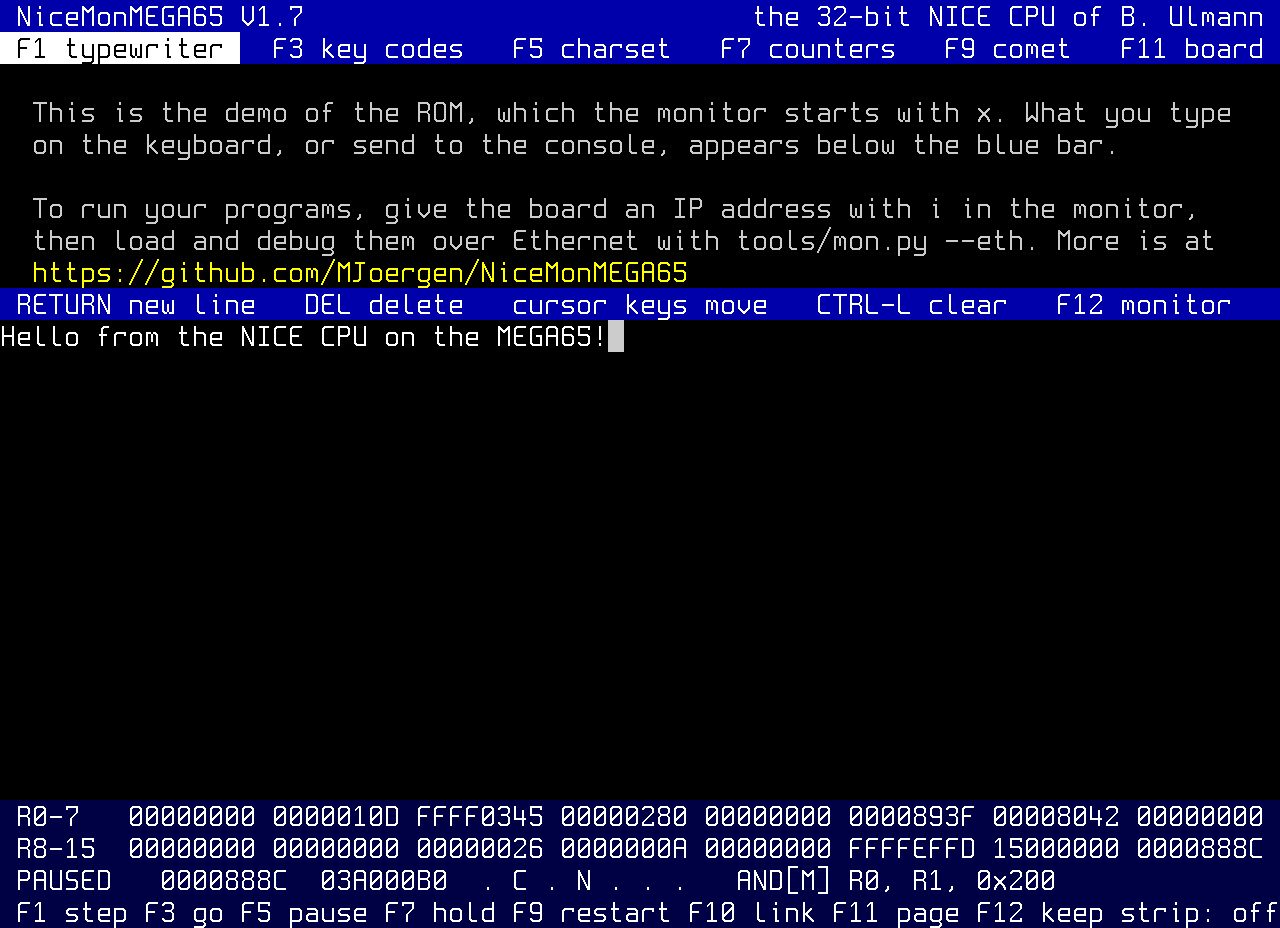
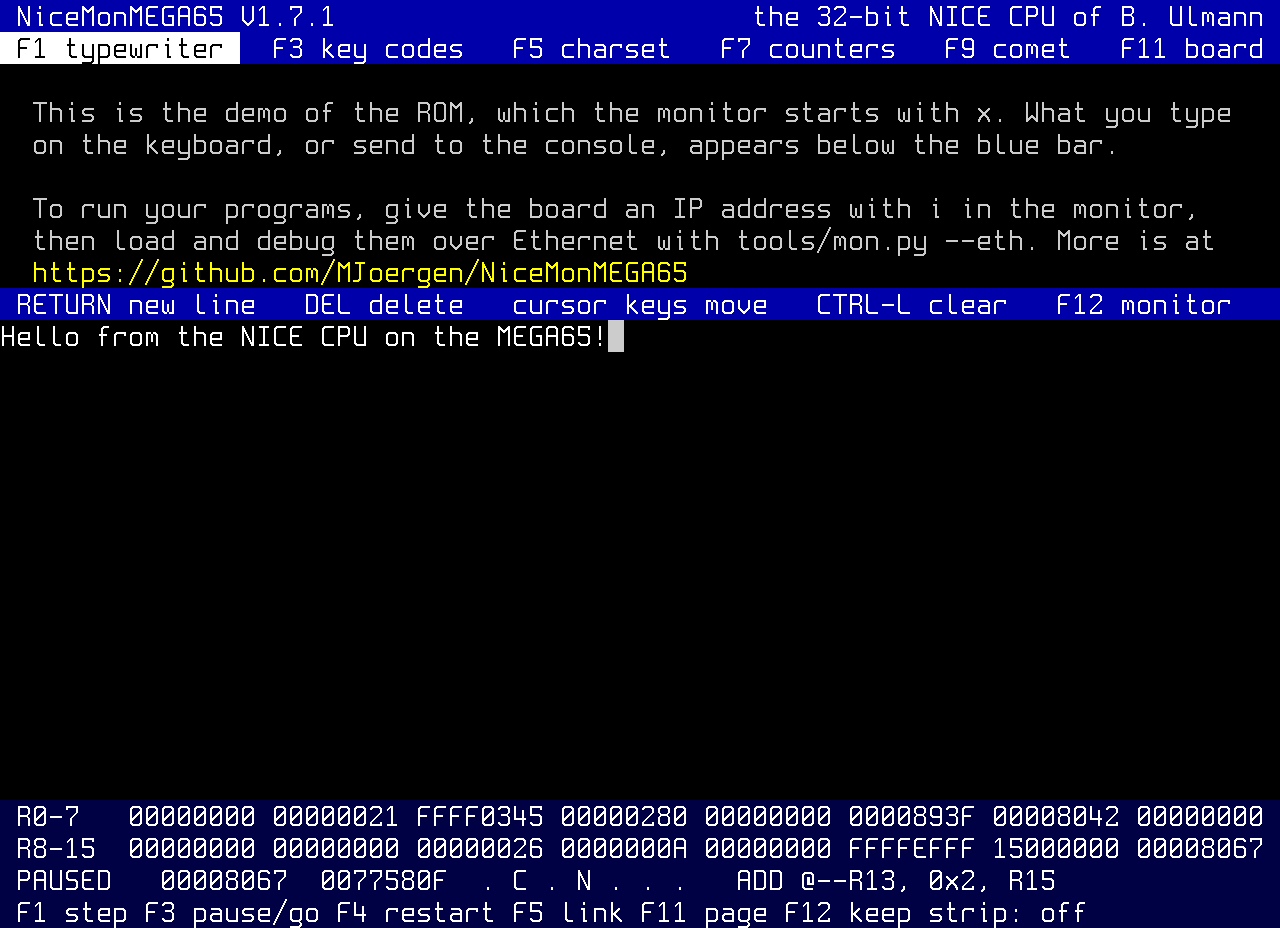
Date the V1.7.1 notes and redraw the pictures
The notes of V1.7.1 had no date, and the README's pictures showed the
tag V1.7 and the debugger's old keys in the strip. The section now has
today's date, and the pictures are drawn again with the tag V1.7.1.
The longer tag costs the demo steps, so the debugger's picture is taken
at 33280 steps, not 33205, where the whole line is typed again.

diff --git a/tools/screenshot.py b/tools/screenshot.py
@@ -26,7 +26,7 @@ The pictures of doc/images/ are made from the ROM of the release, the
 monitor and the demo behind it, with its tag, and x and CR first, which
 start the demo:
 
-    make -C demo VERSION=V1.7
+    make -C demo VERSION=V1.7.1
     printf 'x\\rHello from the NICE CPU on the MEGA65!\\r' > in.txt
     tools/screenshot.py -i in.txt -o doc/images/demo.png demo/build/rom.bin
 
@@ -39,7 +39,7 @@ doc/images/ethernet.png, the demo's F11, with:
 and doc/images/debugger.png, the typewriter paused under the strip once
 the line of the first in.txt is typed, with:
 
-    tools/screenshot.py -i in.txt -n 33205 --debugger \\
+    tools/screenshot.py -i in.txt -n 33280 --debugger \\
         -o doc/images/debugger.png demo/build/rom.bin
 
 Usage:

diff --git a/doc/RELEASE_NOTES.md b/doc/RELEASE_NOTES.md
@@ -21,7 +21,7 @@ The release candidates pinned these:
 
 nice_cpu's `RC01` and `RC03` have no tag here.
 
-## V1.7.1 (not yet released)
+## V1.7.1 (2026-11-06)
 
 **Upgrade notes.**
 
